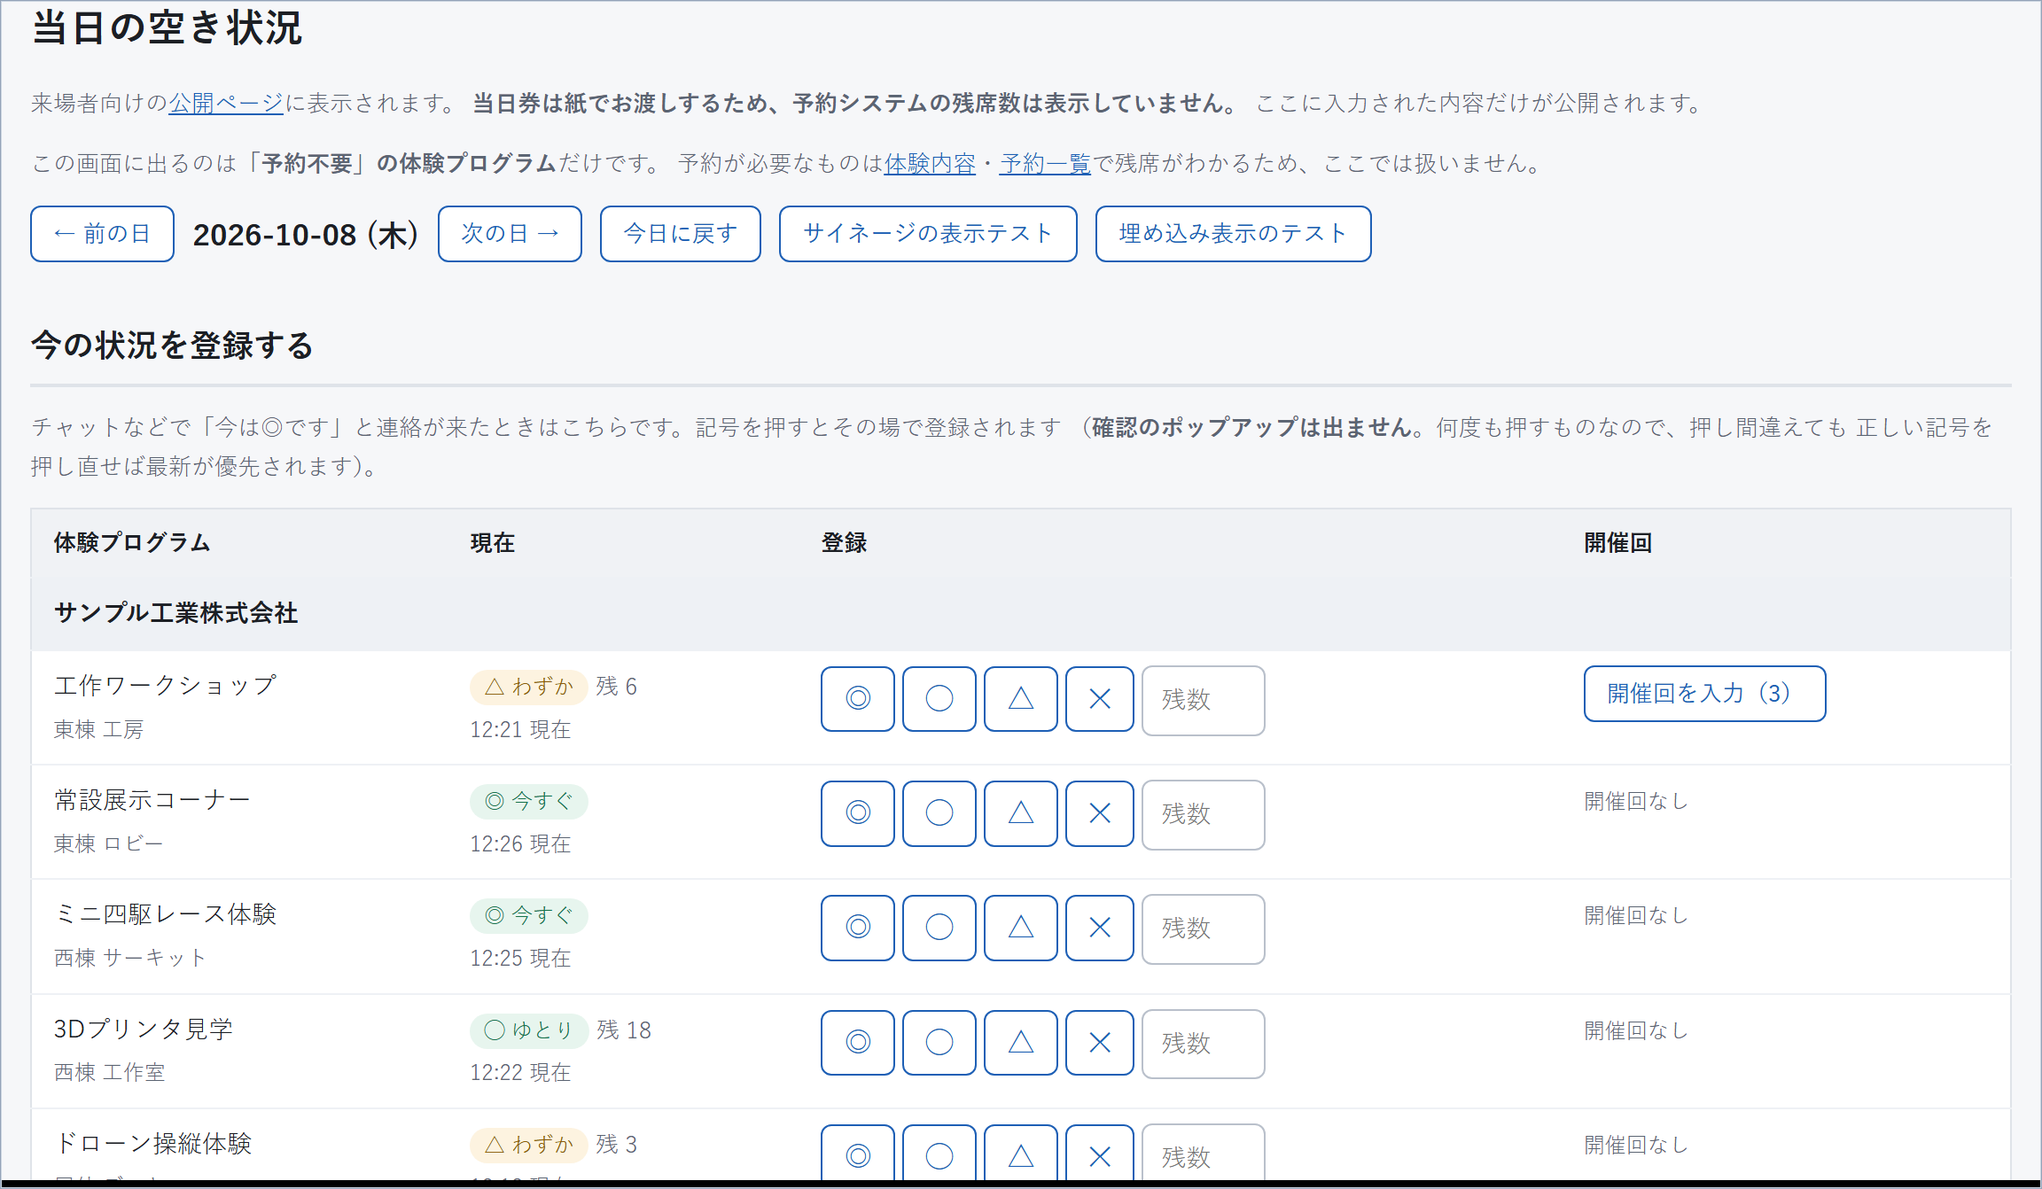
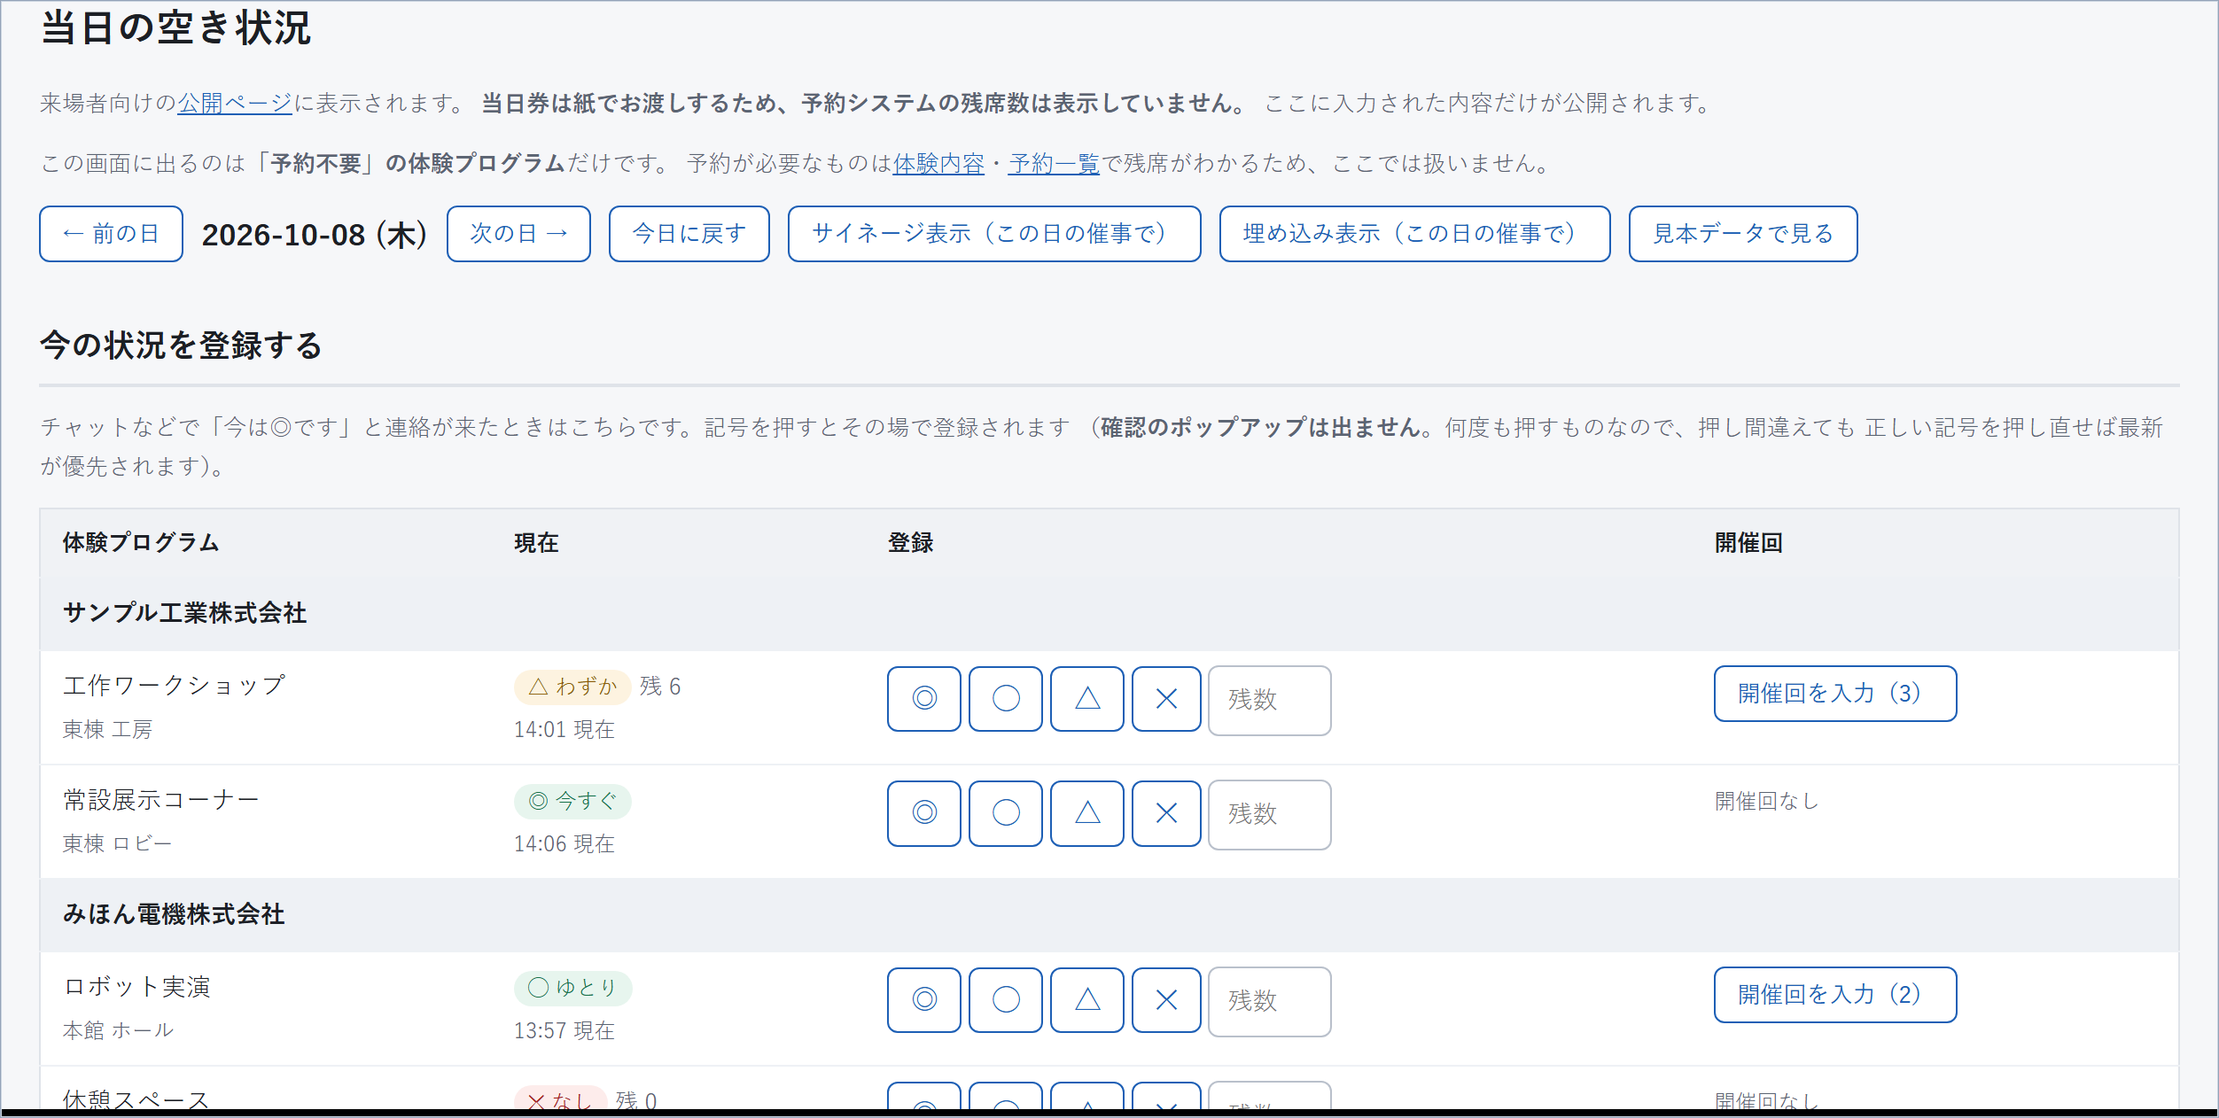
Let the board be rehearsed on the real programme list, without signing in
preview=1 puts a chosen day's real programmes on the board with invented
marks. sampleRows() already answered "does the layout work"; this answers
"does it work with OURS", which is the question the real company names, the
real titles and the real number of them decide - and on this data they
decide it differently: 56 programmes is eight pages, and the titles repeat
the company name, so every card wraps to two lines.

Unauthenticated, because the screen it has to be checked on is the one at
the venue and nobody signs that in. What makes that safe is that the banner
is part of the page rather than a flag somebody has to remember: it names
the day, says the marks are invented, and says how many of the programmes on
screen the real board will carry. On this database that last number is zero,
because no programme is 予約不要 yet - which is the thing the office most
needs to find out before the day rather than on it.

Nothing is written, and the marks come from the row id rather than from
rand(), so the rehearsal does not reshuffle itself every thirty seconds.

The repository's two board queries gained a $walkInOnly flag, defaulted so
the board itself cannot reach past 予約不要 by accident; the rehearsal is
the only caller that passes false. eventsOn() needed a second arm with it:
its date lives in a LEFT JOIN, so without one the rehearsal returned the
whole catalogue whatever date was asked for.

diff --git a/src/Http/Controller/Pub/VacancyController.php b/src/Http/Controller/Pub/VacancyController.php
@@ -74,7 +74,22 @@ final class VacancyController
 
         $service = new VacancyService();
 
-        if ($view === 'sessions') {
+        /*
+         * preview=1 puts the day's real programme list on the board with
+         * invented marks, so a wall can be judged before the day it is for.
+         * Unauthenticated on purpose: the screen it is checked on is the one
+         * at the venue, which nobody signs in to. What makes that safe is
+         * that it is never quiet about it - the banner is part of the page,
+         * not a flag that can be left off.
+         *
+         * The board only. The public page is prose about real reports, and
+         * invented ones underneath it would read as real.
+         */
+        $preview = $display !== 'page' && $request->query('preview') === '1';
+
+        if ($preview) {
+            $rows = $service->previewRows($date, $view);
+        } elseif ($view === 'sessions') {
             $rows = $service->forSessions(
                 $date,
                 null,
@@ -93,7 +108,7 @@ final class VacancyController
 
         return $display === 'page'
             ? $this->page($rows, $date, $view)
-            : $this->board($request, $rows, $date, $view, $display);
+            : $this->board($request, $rows, $date, $view, $display, $preview);
     }
 
     /**
@@ -116,8 +131,14 @@ final class VacancyController
      *
      * @param array<int, array<string, mixed>> $rows
      */
-    private function board(Request $request, array $rows, string $date, string $view, string $display): Response
-    {
+    private function board(
+        Request $request,
+        array $rows,
+        string $date,
+        string $view,
+        string $display,
+        bool $preview = false,
+    ): Response {
         /*
          * A wall of dashes is not worth the room it takes from the rows that
          * say something, and nobody can press anything to skip past it - so
@@ -129,6 +150,8 @@ final class VacancyController
                 || ($row['fallback'] ?? null) !== null
         ));
 
+        $note = $preview ? $this->previewNote($date, $rows) : null;
+
         $rows = (new VacancyService())->sortByAvailability($rows);
 
         $interval = $this->bounded($request->queryInt('interval', self::DEFAULT_INTERVAL), 5, 600);
@@ -138,7 +161,7 @@ final class VacancyController
             // Nothing to page to - the box scrolls. It still re-reads itself,
             // because an embedded board left open all day should not still be
             // showing the morning.
-            return $this->render($rows, $date, $view, 'embed', 1, 1, $reload, null);
+            return $this->render($rows, $date, $view, 'embed', 1, 1, $reload, null, $note);
         }
 
         $perPage = $this->bounded($request->queryInt('per', self::DEFAULT_PER_PAGE), 1, 40);
@@ -158,6 +181,7 @@ final class VacancyController
             'view'     => $view === 'sessions' ? 'sessions' : null,
             'date'     => $date === VacancyService::today() ? null : $date,
             'none'     => $request->query('none') === '0' ? '0' : null,
+            'preview'  => $preview ? '1' : null,
             'per'      => $perPage === self::DEFAULT_PER_PAGE ? null : $perPage,
             'interval' => $interval === self::DEFAULT_INTERVAL ? null : $interval,
             'reload'   => $reload === self::DEFAULT_RELOAD ? null : $reload,
@@ -174,8 +198,40 @@ final class VacancyController
             // One page means nothing moves, so the only reason to come back is
             // the data - and that arrives by hand, slowly.
             $pages > 1 ? $interval : $reload,
-            url('/vacancy') . ($query !== '' ? '?' . $query : '')
+            url('/vacancy') . ($query !== '' ? '?' . $query : ''),
+            $note
         );
+    }
+
+    /**
+     * What the banner says on a rehearsal.
+     *
+     * It names the day, because a rehearsal of the wrong date is the easy
+     * mistake, and it says how many of the programmes on screen the real
+     * board will actually carry - which is the thing the office cannot see
+     * by looking, and the thing that is wrong when the board comes up empty
+     * on the day.
+     *
+     * @param array<int, array<string, mixed>> $rows
+     */
+    private function previewNote(string $date, array $rows): string
+    {
+        $shown = count($rows);
+        $onBoard = count(array_filter(
+            $rows,
+            static fn (array $row): bool => ($row['on_board'] ?? false) === true
+        ));
+
+        $note = jp_date($date) . ' の表示テスト　催事名は実際のものですが、空き状況の記号は架空です';
+
+        if ($onBoard < $shown) {
+            $note .= sprintf(
+                '　／　本番に出るのは「予約不要」の %d 件だけです（この画面は %d 件）',
+                $onBoard,
+                $shown
+            );
+        }
+        return $note;
     }
 
     /**
@@ -190,6 +246,7 @@ final class VacancyController
         int $pages,
         int $interval,
         ?string $nextUrl,
+        ?string $previewNote = null,
     ): Response {
         // renderPartial, not render: the board is its own document from
         // <html> down. Nothing of the public layout belongs on a wall, and an
@@ -204,6 +261,8 @@ final class VacancyController
             'pages'    => $pages,
             'interval' => $interval,
             'nextUrl'  => $nextUrl,
+            'preview'  => $previewNote !== null,
+            'previewNote' => $previewNote,
         ]));
     }
 

diff --git a/tests/test_vacancy.php b/tests/test_vacancy.php
@@ -376,6 +376,61 @@ try {
     $assert(array_key_exists('external_url', $repo->sessionsOn($DAY, $companyA, $standing, false)[0] ?? []),
         'and to the per-round view, where the cards link out the same way');
 
+    // --- rehearsing with the real programme list --------------------------------
+    // sampleRows() answers "does the layout work". This answers "does it work
+    // with OUR programmes", which is the question the real company names and
+    // the real number of them decide - so it reads the database, and must
+    // still write nothing to it.
+    Db::execute('UPDATE companies SET is_published = 1 WHERE id = ?', [$companyA]);
+    try {
+        $before = (int) Db::scalar('SELECT COUNT(*) FROM vacancy_reports');
+        $preview = $service->previewRows($DAY);
+        $assert((int) Db::scalar('SELECT COUNT(*) FROM vacancy_reports') === $before,
+            'a rehearsal over real programmes still writes nothing');
+
+        $previewIds = $idsOf($preview);
+        $assert(in_array($standing, $previewIds, true) && in_array($walkIn, $previewIds, true),
+            "the day's real programmes are what is on screen, not invented ones");
+        $assert(in_array($booked, $previewIds, true),
+            'including the ones that take bookings - their titles are the long ones, '
+            . 'and the point of the rehearsal is to see the real lengths');
+
+        $flags = [];
+        foreach ($preview as $row) {
+            $flags[(int) $row['id']] = (bool) $row['on_board'];
+        }
+        $assert($flags[$standing] === true && $flags[$booked] === false,
+            'but each row says whether the real board will carry it, so the banner can count them');
+
+        $assert(array_filter($preview, static fn (array $r): bool => $r['report'] === null) === [],
+            'every row carries a mark - a rehearsal of blank cards shows nothing');
+
+        // Derived from the id, not drawn at random: a wall that reshuffles on
+        // every refresh tells you nothing about how the real one will read.
+        $marks = static fn (array $rows): array => array_map(
+            static fn (array $r): string => $r['report']['level']->value,
+            $rows
+        );
+        $assert($marks($preview) === $marks($service->previewRows($DAY)),
+            'and the same marks come back every time, so the screen does not flicker');
+
+        // A far-off day is the day's line-up too, and the day's line-up there
+        // is the walk-up booths and nothing else - they have no date of their
+        // own. What must NOT follow them across is a programme whose rounds
+        // are elsewhere, or the rehearsal would be the catalogue, not a day.
+        $far = $idsOf($service->previewRows('2035-01-01'));
+        $assert(in_array($walkIn, $far, true),
+            'a walk-up booth rehearses on any day, because it runs on any day');
+        $assert(!in_array($booked, $far, true),
+            'a programme whose rounds are on another day does not, or this would be the catalogue');
+
+        $rounds = $service->previewRows($DAY, 'sessions');
+        $assert($rounds !== [] && isset($rounds[0]['starts_at'], $rounds[0]['report']),
+            'the per-round view rehearses too, from the rounds in the database');
+    } finally {
+        Db::execute('UPDATE companies SET is_published = 0 WHERE id = ?', [$companyA]);
+    }
+
     // --- the signage rehearsal -------------------------------------------------
     // Checking the wall display must not require the day it has to be right on.
     $before = (int) Db::scalar('SELECT COUNT(*) FROM vacancy_reports');

diff --git a/src/Repository/VacancyRepository.php b/src/Repository/VacancyRepository.php
@@ -151,10 +151,28 @@ final class VacancyRepository
      *
      * @return array<int, array<string, mixed>>
      */
-    public function eventsOn(string $date, ?int $companyId = null, bool $publishedOnly = true): array
-    {
+    public function eventsOn(
+        string $date,
+        ?int $companyId = null,
+        bool $publishedOnly = true,
+        bool $walkInOnly = true,
+    ): array {
         $params = [$date];
-        $where = '';
+        /*
+         * $walkInOnly false is the rehearsal, and nothing else: it asks for
+         * every programme running that day so the office can see the real
+         * line-up - the real names, the real lengths - laid out before the
+         * day. Defaulted true so the board itself cannot get it by accident.
+         */
+        /*
+         * Walk-up booths have no date of their own and belong to every
+         * day. The rehearsal adds the ones with a round that day, which
+         * is what makes it the DAY'S line-up rather than the whole
+         * catalogue - a date that nothing runs on must come up empty.
+         */
+        $where = $walkInOnly
+            ? ' AND e.booking_required = 0'
+            : ' AND (e.booking_required = 0 OR today.id IS NOT NULL)';
         if ($companyId !== null) {
             $where .= ' AND e.company_id = ?';
             $params[] = $companyId;
@@ -173,7 +191,7 @@ final class VacancyRepository
                JOIN companies c ON c.id = e.company_id
                LEFT JOIN event_sessions today
                       ON today.event_id = e.id AND DATE(today.starts_at) = ?
-              WHERE e.booking_required = 0
+              WHERE 1 = 1
                     {$where}
               GROUP BY e.id, e.title, e.venue, e.booking_required, e.external_url,
                        c.id, c.name, c.area, e.sort_order, c.sort_order
@@ -193,10 +211,21 @@ final class VacancyRepository
      *
      * @return array<int, array<string, mixed>>
      */
-    public function sessionsOn(string $date, ?int $companyId = null, ?int $eventId = null, bool $publishedOnly = true): array
-    {
+    public function sessionsOn(
+        string $date,
+        ?int $companyId = null,
+        ?int $eventId = null,
+        bool $publishedOnly = true,
+        bool $walkInOnly = true,
+    ): array {
         $params = [$date];
-        $where = ' AND e.booking_required = 0';
+        /*
+         * See eventsOn(): false is the rehearsal and nothing else. No
+         * second arm is needed here - every row this returns already has
+         * a round on $date, which is the thing eventsOn() has to go
+         * looking for.
+         */
+        $where = $walkInOnly ? ' AND e.booking_required = 0' : '';
         if ($companyId !== null) {
             $where .= ' AND e.company_id = ?';
             $params[] = $companyId;
@@ -212,6 +241,7 @@ final class VacancyRepository
         return Db::select(
             "SELECT s.id, s.starts_at, s.ends_at, s.status,
                     e.id AS event_id, e.title AS event_title, e.venue, e.external_url,
+                    e.booking_required,
                     c.id AS company_id, c.name AS company_name, c.area
                FROM event_sessions s
                JOIN events e    ON e.id = s.event_id

diff --git a/src/Service/VacancyService.php b/src/Service/VacancyService.php
@@ -216,6 +216,66 @@ final class VacancyService
     }
 
     /**
+     * The real programme list for a day, with invented marks on it.
+     *
+     * For looking at the board before the day it is for. sampleRows() answers
+     * "does the layout work"; this answers "does it work with OUR programmes"
+     * - the real company names, the real titles, the real number of them,
+     *   which is what actually decides whether a wall is readable.
+     *
+     * Nothing is written. The marks are derived from the row's id rather than
+     * drawn at random, so the screen does not reshuffle itself every time it
+     * refreshes - a rehearsal that flickers tells you nothing about a wall.
+     *
+     * Programmes that take bookings are included even though the real board
+     * will not carry them: the point here is the shape of the day's line-up,
+     * and leaving them out would hide how long the real titles are. Each row
+     * says which it is in on_board, and the banner says how many of them the
+     * real thing will show.
+     *
+     * @return array<int, array<string, mixed>>
+     */
+    public function previewRows(string $date, string $view = 'now'): array
+    {
+        $rows = $view === 'sessions'
+            ? $this->reports->sessionsOn($date, null, null, true, false)
+            : $this->reports->eventsOn($date, null, true, false);
+
+        $marks = VacancyLevel::cases();
+        $count = count($rows);
+
+        $out = [];
+        foreach ($rows as $i => $row) {
+            $id = (int) $row['id'];
+            $level = $marks[$id % count($marks)];
+
+            // One row old enough to grey out. That state cannot be staged on
+            // the day, and it is the one worth seeing beforehand.
+            $stale = $count > 2 ? $i === 2 : $i === $count - 1;
+            $age = $stale ? self::STALE_MINUTES + 25 : ($id % 7) * 9 + 1;
+
+            $remaining = match (true) {
+                $level === VacancyLevel::None => 0,
+                $id % 3 === 0 => 2 + $id % 15,
+                default => null,
+            };
+
+            $row['report'] = $this->decorate([
+                'level' => $level->value,
+                'remaining' => $remaining,
+                'note' => null,
+                'reported_at' => date('Y-m-d H:i:s', time() - $age * 60),
+                'reported_by' => 'preview',
+            ]);
+            $row['fallback'] = null;
+            $row['on_board'] = (int) ($row['booking_required'] ?? 1) === 0;
+
+            $out[] = $row;
+        }
+        return $out;
+    }
+
+    /**
      * Rows that look like a busy day, for checking the wall display before
      * there is a day to check it on.
      *

diff --git a/templates/pub/vacancy_signage.php b/templates/pub/vacancy_signage.php
@@ -19,11 +19,13 @@
  * @var int         $pages
  * @var int         $interval seconds before it reloads
  * @var string|null $nextUrl  where the reload goes; null reloads in place
- * @var bool        $preview  true for the rehearsal; the data is invented
+ * @var bool        $preview  true for the rehearsal; the marks are invented
+ * @var string|null $previewNote what the rehearsal banner says
  */
 $preview ??= false;
 $display ??= 'signage';
 $nextUrl ??= null;
+$previewNote ??= '表示テスト中　この画面のデータはすべて架空のものです';
 ?><!doctype html>
 <html lang="ja">
 <head>
@@ -43,9 +45,11 @@ $nextUrl ??= null;
 <body class="sg sg--<?= e($display) ?>">
 
 <?php if ($preview): ?>
-  <?php /* Unmissable, and only ever rendered behind the admin login. A
-           rehearsal screen left running by mistake must announce itself. */ ?>
-  <div class="sg-preview">表示テスト中　この画面のデータはすべて架空のものです</div>
+  <?php /* Unmissable, and part of the page rather than a flag that could be
+           left off: this URL needs no sign-in, so a rehearsal left running on
+           the wall - or found by a visitor - has to say what it is without
+           anybody having to remember to make it. */ ?>
+  <div class="sg-preview"><?= e($previewNote) ?></div>
 <?php endif; ?>
 
 <header class="sg-head">

diff --git a/templates/admin/vacancy.php b/templates/admin/vacancy.php
@@ -63,10 +63,17 @@ $current = static function (?array $report): string {
     <?php /* Rehearsing the wall display needs neither the day nor any data,
              which is the point: you cannot check it for the first time on the
              morning it has to be right. */ ?>
+    <?php $try = static fn (string $mode): string => url('/vacancy') . '?' . http_build_query([
+        'display' => $mode,
+        'preview' => '1',
+        'date'    => $date,
+    ]); ?>
+    <a class="btn btn--ghost btn--small" href="<?= e($try('signage')) ?>"
+       target="_blank" rel="noopener">サイネージ表示（この日の催事で）</a>
+    <a class="btn btn--ghost btn--small" href="<?= e($try('embed')) ?>"
+       target="_blank" rel="noopener">埋め込み表示（この日の催事で）</a>
     <a class="btn btn--ghost btn--small" href="<?= url('/admin/vacancy/signage') ?>"
-       target="_blank" rel="noopener">サイネージの表示テスト</a>
-    <a class="btn btn--ghost btn--small" href="<?= url('/admin/vacancy/signage') ?>?display=embed"
-       target="_blank" rel="noopener">埋め込み表示のテスト</a>
+       target="_blank" rel="noopener">見本データで見る</a>
   <?php endif; ?>
 </div>
 
